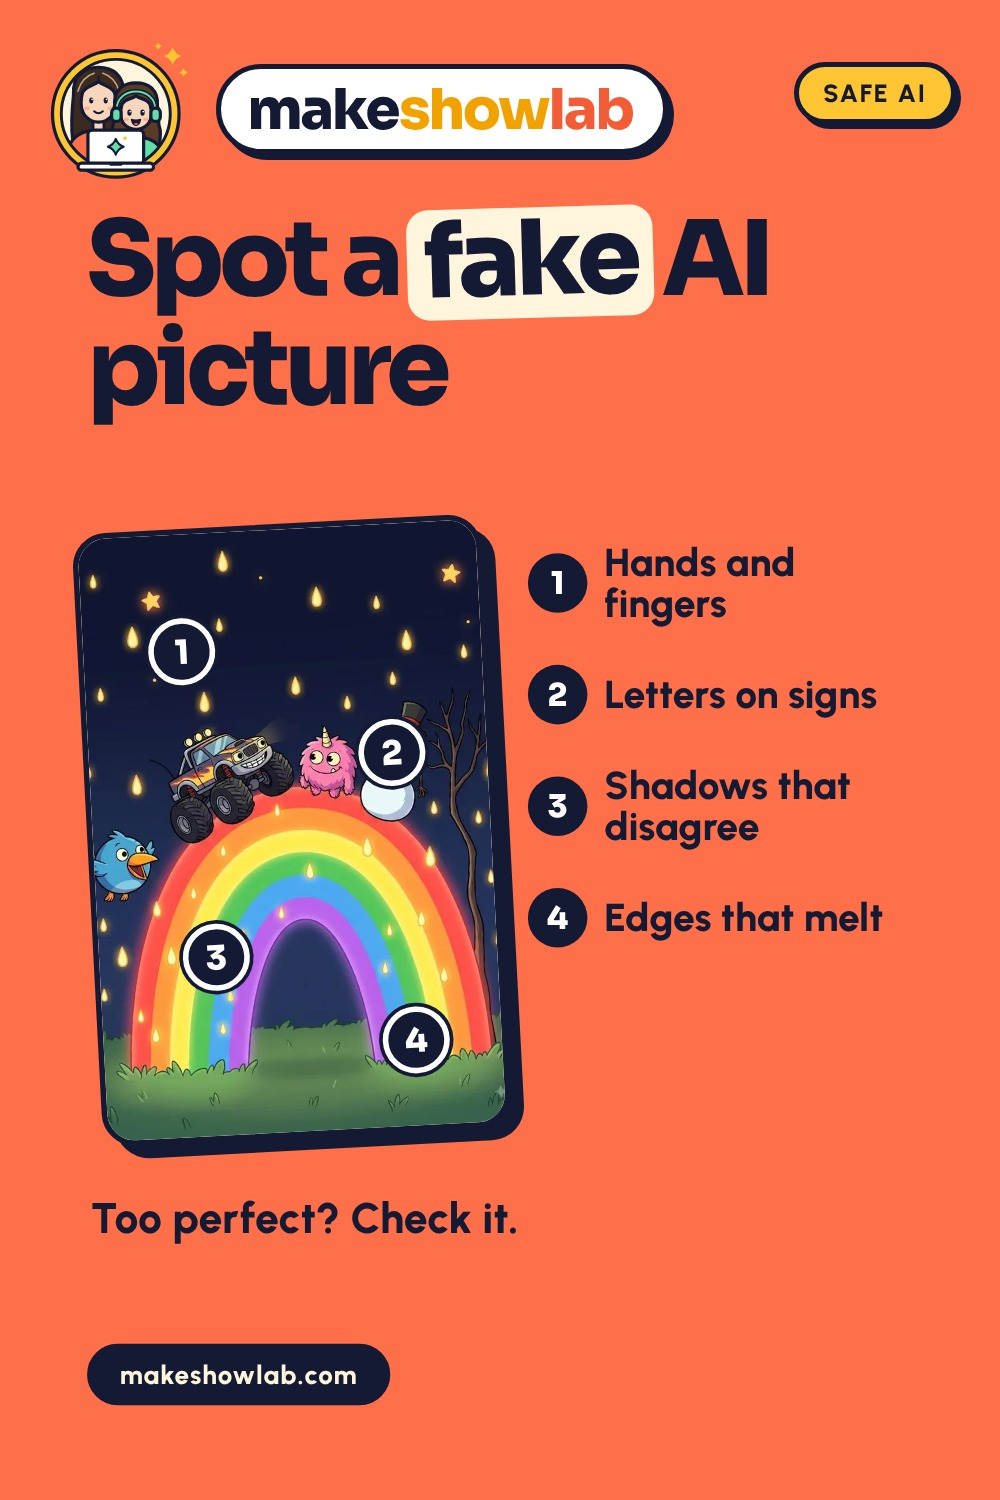
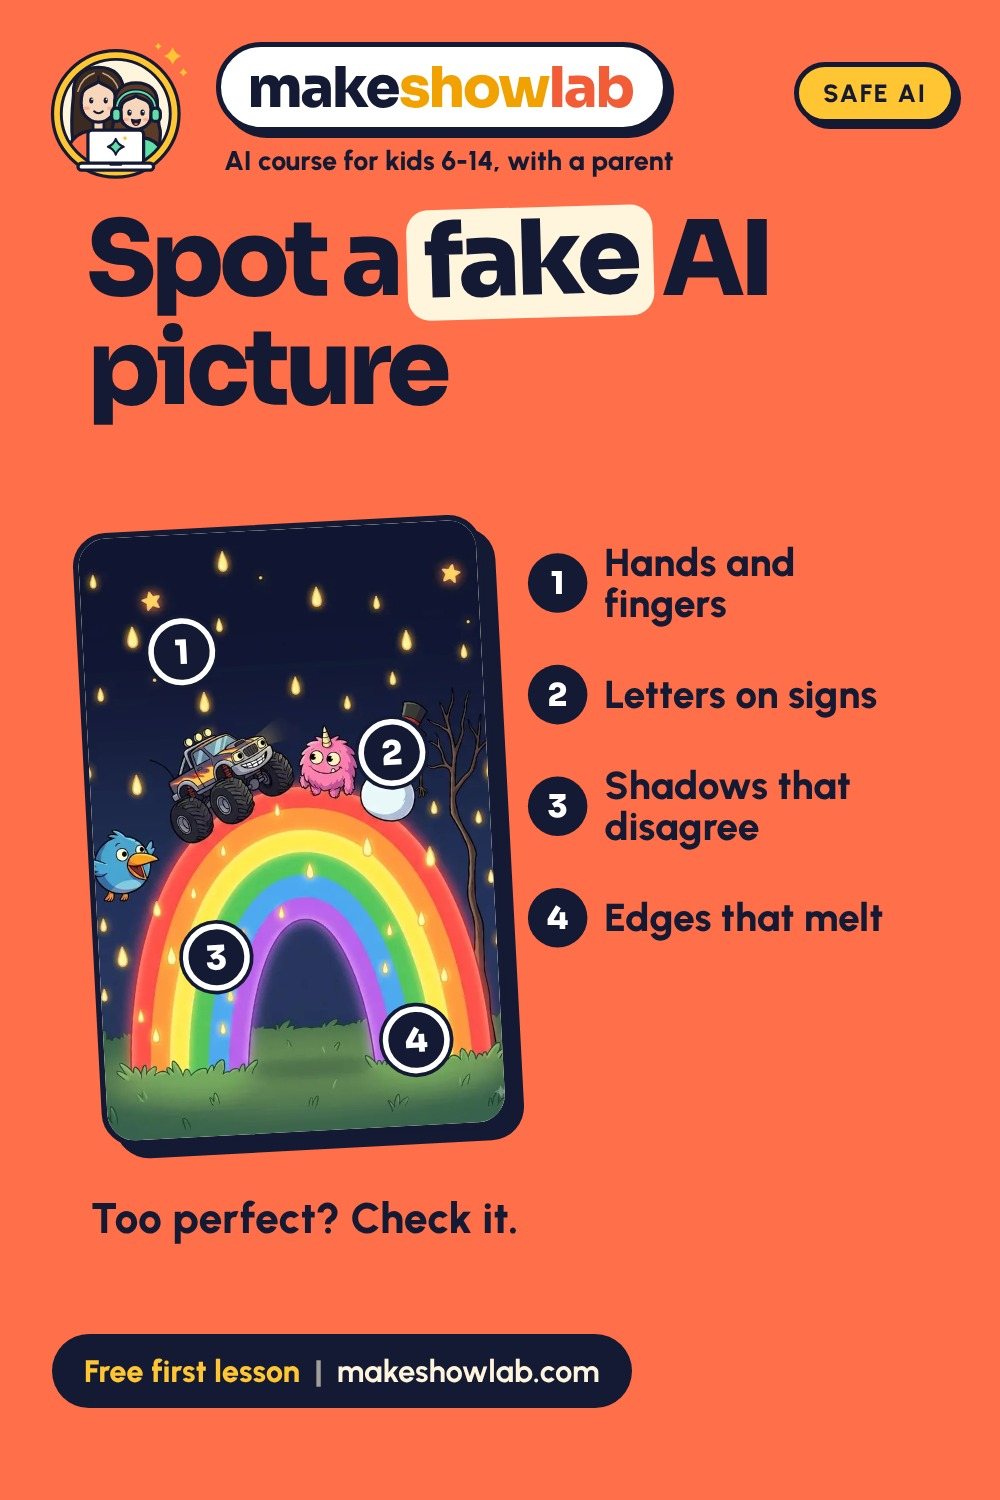
Pinterest: who-we-are line and free-lesson footer on every pin, CTA in descriptions, pin 4 replaced, pins 9 and 12 reworked
Claude-Session: https://claude.ai/code/session_01DtGyjPj8iBxY3GMZhcrbkr

Changed region(s): [[0.217, 0.0, 0.682, 0.1227], [0.031, 0.8893, 0.651, 0.9507]]

diff --git a/social/desks/pinterest.md b/social/desks/pinterest.md
@@ -10,6 +10,8 @@
 - 6 досок с названиями и описаниями (`pins/boards.md`); инструкция, как их создать, для Сергея: `pins/BOARDS-HOWTO.md`
 - текст профиля
 - третья партия (14.11), 6 пинов по сериям Instagram (`social/concept/SERIES.md`: вопрос или обещание + одна картинка, которая объясняет): 19 «Why does AI draw six fingers», 20 «How AI draws pictures for kids», 21 «Why AI sounds sure when wrong» (доска How AI Works for Kids), 22 «Spot a fake AI picture», 23 «What grandmas made with grandkids», 24 «Kid made a cartoon with AI»
+- на всех пинах: подпись под логотипом «AI course for kids 6-14, with a parent» и нижняя полоса «Free first lesson | makeshowlab.com»; в описании каждого пина в конце «First lesson free, no card» (кроме пина 18, он продаёт сам подарок)
+- пин 4 заменён: вместо «AI house rules» (повторял пины 3 и 13) теперь «AI lessons for kids at home», бесплатный урок по шагам; пины 9 и 12 переделаны (экран «листать или делать», доказательство «каждый урок проверен на Камилле»)
 - все 24 пина теперь в рамке серий Instagram: цвет серии (Ask AI и Safe AI коралловый, By a kid жёлтый, How it works тёмно-синий, Free lesson мятный) и плашка серии сверху справа
 - на всех пинах сверху крупный знак и надпись makeshowlab на белой плашке (по просьбе владельца); весь макет ужат под эту полосу
 - лист со всеми пинами: `pins/_all-pins.jpg`
@@ -63,3 +65,4 @@ node social/concept/pins.mjs   # проверяет тексты и рисует
 - 11.11.2026: собрана вторая партия, пины 13–18 (3 памятки, 3 подарка к Рождеству), ждёт утверждения.
 - 11.11.2026: на все 18 пинов добавлен крупный логотип с надписью; собран общий лист всех пинов.
 - 14.11.2026: доска №6 «How AI Works for Kids»; пины перекрашены в рамки серий Instagram; шесть новых пинов (19–24); инструкция по созданию досок для Сергея. Metricool: аккаунт nova0551 подключён, пинов в очереди нет.
+- 16.11.2026: на все пины добавлены подпись «кто мы» и призыв на бесплатный урок (картинка и описание); пин 4 заменён, пины 9 и 12 переделаны; с пина 6 снят «hold» (Аня подтвердила, что радугу нарисовал ребёнок, запись в desks/instagram.md).

diff --git a/social/concept/pins/ai-lessons-for-kids-at-home.md b/social/concept/pins/ai-lessons-for-kids-at-home.md
@@ -1,0 +1,23 @@
+---
+pin: 4
+network: pinterest
+image: ai-lessons-for-kids-at-home.jpg (1000x1500)
+search_phrase: "AI lessons for kids at home" (on the picture and first in the title; check it in Pinterest search suggestions)
+board: "Homeschool Technology Ideas"
+link: https://www.makeshowlab.com/?utm_source=pinterest&utm_medium=social&utm_campaign=ai-lessons-for-kids-at-home#free
+variant: фото + шаги
+ai_disclosure: no
+title_length: 80 of 100
+description_length: 174
+---
+## Title
+
+AI Lessons for Kids at Home | First One Free, No Card, 10-20 Minutes | Ages 6-14
+
+## Description
+
+AI lessons for kids at home that fit one evening: watch the finished thing, make your own with a parent next to you, then play it together. The first lesson is free, no card.
+
+## Alt text
+
+Mint pin that reads "AI lessons for kids at home" with three steps: email only, they build a game tonight, you play it together, above a photo of a mom and daughter playing the game at a kitchen table.

diff --git a/social/concept/pins/turn-kids-drawings-into-cartoons.md b/social/concept/pins/turn-kids-drawings-into-cartoons.md
@@ -7,9 +7,8 @@ board: "AI Activities for Kids"
 link: https://www.makeshowlab.com/?utm_source=pinterest&utm_medium=social&utm_campaign=turn-kids-drawings-into-cartoons#works
 variant: было и стало
 ai_disclosure: yes, the picture shows AI-made work: switch the AI label on
-hold: ждёт подтверждения, что рисунок детский (как пост №1)
 title_length: 73 of 100
-description_length: 172
+description_length: 200
 ---
 ## Title
 
@@ -17,7 +16,7 @@ Turn Kids Drawings Into Cartoons | With AI, in One Lesson | Kids Art Idea
 
 ## Description
 
-Turn kids drawings into cartoons with AI: the child has the idea and makes the drawing, the AI follows it, and a parent sits next to them. A kids art idea for ages 6 to 14.
+Turn kids drawings into cartoons with AI: the child has the idea and makes the drawing, the AI follows it, and a parent sits next to them. A kids art idea for ages 6 to 14. First lesson free, no card.
 
 ## Alt text
 

diff --git a/social/concept/pins/what-grandmas-made-with-grandkids.md b/social/concept/pins/what-grandmas-made-with-grandkids.md
@@ -8,7 +8,7 @@ link: https://www.makeshowlab.com/?utm_source=pinterest&utm_medium=social&utm_ca
 variant: четыре портрета
 ai_disclosure: no
 title_length: 81 of 100
-description_length: 163
+description_length: 191
 ---
 ## Title
 
@@ -16,7 +16,7 @@ What Grandmas Made With Grandkids | A Cartoon, a Song, a Gift, a Game | Ages 6-1
 
 ## Description
 
-What grandmas made with grandkids: a cartoon, a song, a gift and a game, all in an AI course done side by side. A gift idea that is time together, not another toy.
+What grandmas made with grandkids: a cartoon, a song, a gift and a game, all in an AI course done side by side. A gift idea that is time together, not another toy. First lesson free, no card.
 
 Margaret, Susan, Linda and Patricia are early-access testers. They received the course free and shared honest feedback.
 

diff --git a/social/concept/pins/what-kids-should-never-tell-ai.md b/social/concept/pins/what-kids-should-never-tell-ai.md
@@ -9,7 +9,7 @@ variant: список
 ai_disclosure: no
 hold: список «чего не говорить AI» сверить с уроком Анны про безопасность и получить её «ок»
 title_length: 80 of 100
-description_length: 165
+description_length: 193
 ---
 ## Title
 
@@ -17,7 +17,7 @@ What Kids Should Never Tell AI | 4 Things That Stay Private | Kids and AI Safety
 
 ## Description
 
-What kids should never tell AI: their full name, where they live or go to school, passwords, and where they are right now. Four things to go over before any AI tool.
+What kids should never tell AI: their full name, where they live or go to school, passwords, and where they are right now. Four things to go over before any AI tool. First lesson free, no card.
 
 ## Alt text
 

diff --git a/social/concept/pins/kid-made-a-cartoon-with-ai.md b/social/concept/pins/kid-made-a-cartoon-with-ai.md
@@ -8,7 +8,7 @@ link: https://www.makeshowlab.com/?utm_source=pinterest&utm_medium=social&utm_ca
 variant: шаги
 ai_disclosure: yes, the picture shows AI-made work: switch the AI label on
 title_length: 79 of 100
-description_length: 177
+description_length: 205
 ---
 ## Title
 
@@ -16,7 +16,7 @@ Kid Made a Cartoon With AI | 4 Steps a 10-Year-Old Followed | Easy Kids Project
 
 ## Description
 
-A kid made a cartoon with AI: a 10-year-old told it her story and characters, checked every scene and fixed the ones that came out wrong. About 20 minutes, a parent next to her.
+A kid made a cartoon with AI: a 10-year-old told it her story and characters, checked every scene and fixed the ones that came out wrong. About 20 minutes, a parent next to her. First lesson free, no card.
 
 ## Alt text
 

diff --git a/social/concept/pins/how-ai-draws-pictures-for-kids.md b/social/concept/pins/how-ai-draws-pictures-for-kids.md
@@ -8,7 +8,7 @@ link: https://www.makeshowlab.com/?utm_source=pinterest&utm_medium=social&utm_ca
 variant: один визуал
 ai_disclosure: yes, the picture shows AI-made work: switch the AI label on
 title_length: 92 of 100
-description_length: 165
+description_length: 193
 ---
 ## Title
 
@@ -16,7 +16,7 @@ How AI Draws Pictures for Kids | It Starts With TV Static, Not a Blank Page | Ea
 
 ## Description
 
-How AI draws pictures for kids, in plain words: it starts from random noise like TV static, then cleans it up a little at a time until the picture matches the words.
+How AI draws pictures for kids, in plain words: it starts from random noise like TV static, then cleans it up a little at a time until the picture matches the words. First lesson free, no card.
 
 ## Alt text
 

diff --git a/social/concept/pins/non-toy-gift-idea-for-kids.md b/social/concept/pins/non-toy-gift-idea-for-kids.md
@@ -8,7 +8,7 @@ link: https://www.makeshowlab.com/?utm_source=pinterest&utm_medium=social&utm_ca
 variant: цитата
 ai_disclosure: no
 title_length: 77 of 100
-description_length: 156
+description_length: 184
 ---
 ## Title
 
@@ -16,7 +16,7 @@ Non-Toy Gift Idea for Kids | An AI Course You Do Together | From Grandparents
 
 ## Description
 
-A non-toy gift idea for kids 6 to 14: a short AI creativity course a grandparent or parent does side by side with them. They make a cartoon, a game, a song.
+A non-toy gift idea for kids 6 to 14: a short AI creativity course a grandparent or parent does side by side with them. They make a cartoon, a game, a song. First lesson free, no card.
 
 Linda is an early-access tester. She received the course free and shared honest feedback.
 

diff --git a/social/concept/pins/christmas-gift-ideas-for-grandkids.md b/social/concept/pins/christmas-gift-ideas-for-grandkids.md
@@ -8,7 +8,7 @@ link: https://www.makeshowlab.com/?utm_source=pinterest&utm_medium=social&utm_ca
 variant: цитата
 ai_disclosure: no
 title_length: 72 of 100
-description_length: 154
+description_length: 182
 ---
 ## Title
 
@@ -16,7 +16,7 @@ Christmas Gift Ideas for Grandkids | Make Something Together | Ages 6-14
 
 ## Description
 
-Christmas gift ideas for grandkids that are not another toy: a short AI course a grandparent does with them. They make a little game, a cartoon or a song.
+Christmas gift ideas for grandkids that are not another toy: a short AI course a grandparent does with them. They make a little game, a cartoon or a song. First lesson free, no card.
 
 Patricia is an early-access tester. She received the course free and shared honest feedback.
 

diff --git a/social/concept/pins/spot-a-fake-ai-picture.md b/social/concept/pins/spot-a-fake-ai-picture.md
@@ -8,7 +8,7 @@ link: https://www.makeshowlab.com/?utm_source=pinterest&utm_medium=social&utm_ca
 variant: четыре проверки
 ai_disclosure: yes, the picture shows AI-made work: switch the AI label on
 title_length: 72 of 100
-description_length: 156
+description_length: 184
 ---
 ## Title
 
@@ -16,7 +16,7 @@ Spot a Fake AI Picture | 4 Checks to Teach Your Kid | Kids and AI Safety
 
 ## Description
 
-Spot a fake AI picture with your kid: check hands and fingers, letters on signs, shadows that point different ways, and edges that melt into the background.
+Spot a fake AI picture with your kid: check hands and fingers, letters on signs, shadows that point different ways, and edges that melt into the background. First lesson free, no card.
 
 ## Alt text
 

diff --git a/social/concept/pins/ai-projects-for-kids.md b/social/concept/pins/ai-projects-for-kids.md
@@ -8,7 +8,7 @@ link: https://www.makeshowlab.com/?utm_source=pinterest&utm_medium=social&utm_ca
 variant: коллаж
 ai_disclosure: yes, the picture shows AI-made work: switch the AI label on
 title_length: 68 of 100
-description_length: 157
+description_length: 185
 ---
 ## Title
 
@@ -16,7 +16,7 @@ AI Projects for Kids | A Cartoon, a Game, a Sticker Pack | No Coding
 
 ## Description
 
-AI projects for kids, made by a 10-year-old: a cartoon with her own characters, a game you can play and a sticker pack. No coding, with a parent next to her.
+AI projects for kids, made by a 10-year-old: a cartoon with her own characters, a game you can play and a sticker pack. No coding, with a parent next to her. First lesson free, no card.
 
 ## Alt text
 

diff --git a/social/concept/pins/why-does-ai-draw-six-fingers.md b/social/concept/pins/why-does-ai-draw-six-fingers.md
@@ -8,7 +8,7 @@ link: https://www.makeshowlab.com/?utm_source=pinterest&utm_medium=social&utm_ca
 variant: один визуал
 ai_disclosure: no
 title_length: 88 of 100
-description_length: 175
+description_length: 203
 ---
 ## Title
 
@@ -16,7 +16,7 @@ Why Does AI Draw Six Fingers | It Learned How Hands Look, Not How to Count | Kid
 
 ## Description
 
-Why does AI draw six fingers? It learned what hands look like from millions of pictures, where hands are half hidden. It copies the look and never counts. Teach kids to check.
+Why does AI draw six fingers? It learned what hands look like from millions of pictures, where hands are half hidden. It copies the look and never counts. Teach kids to check. First lesson free, no card.
 
 ## Alt text
 
